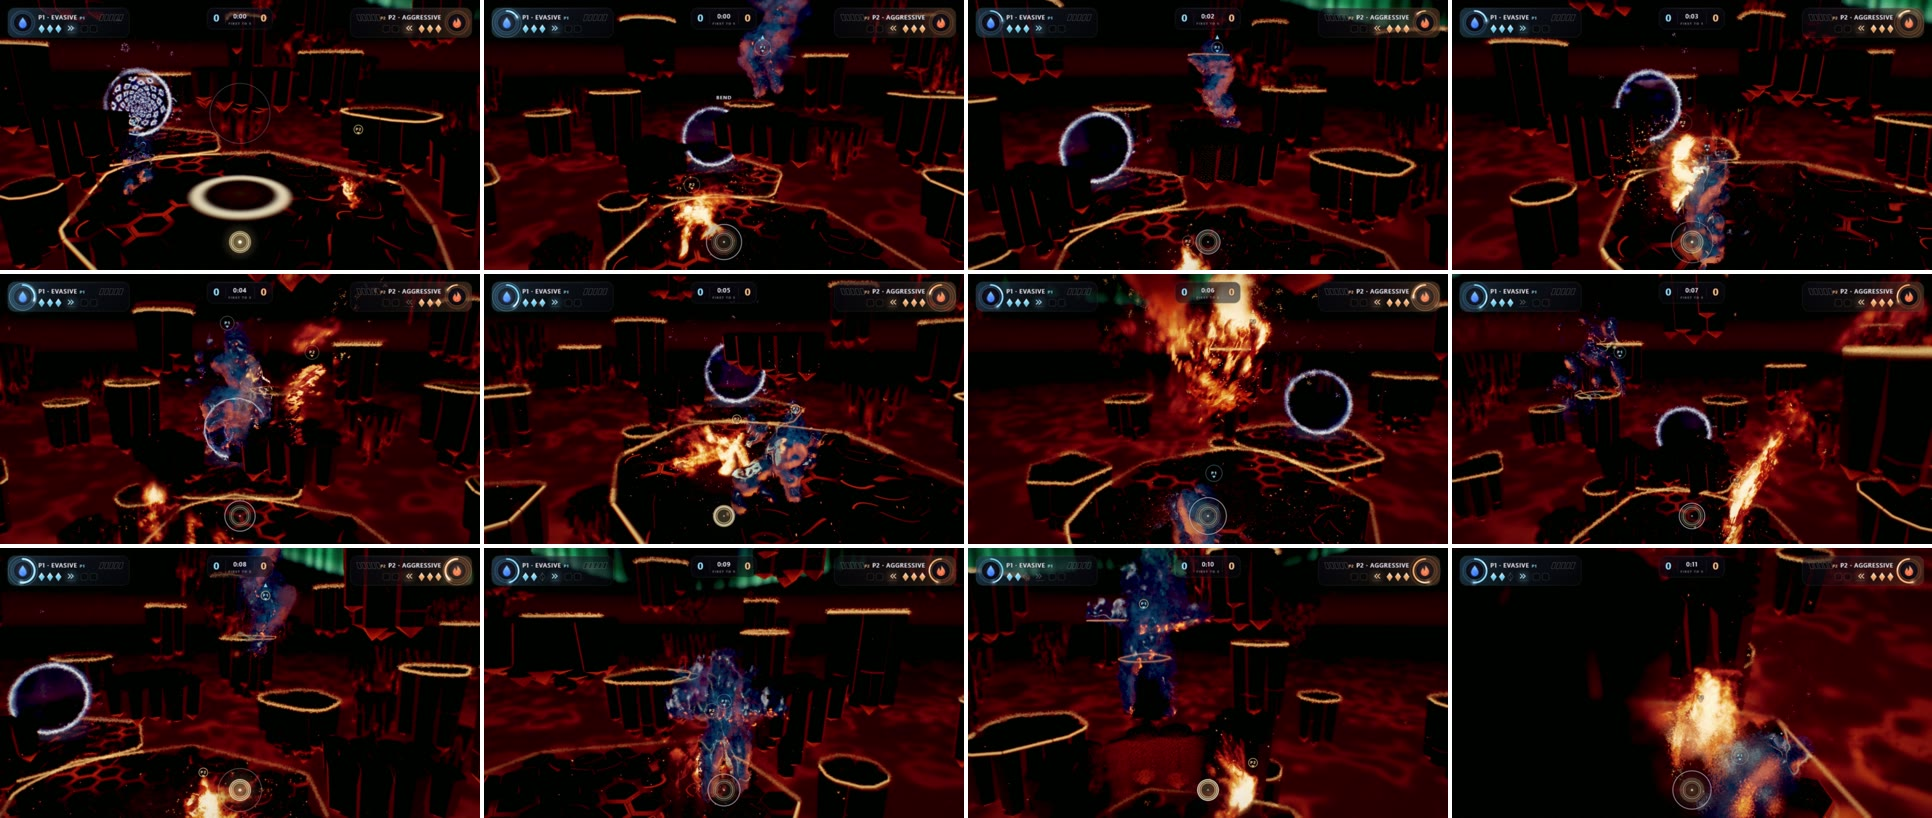
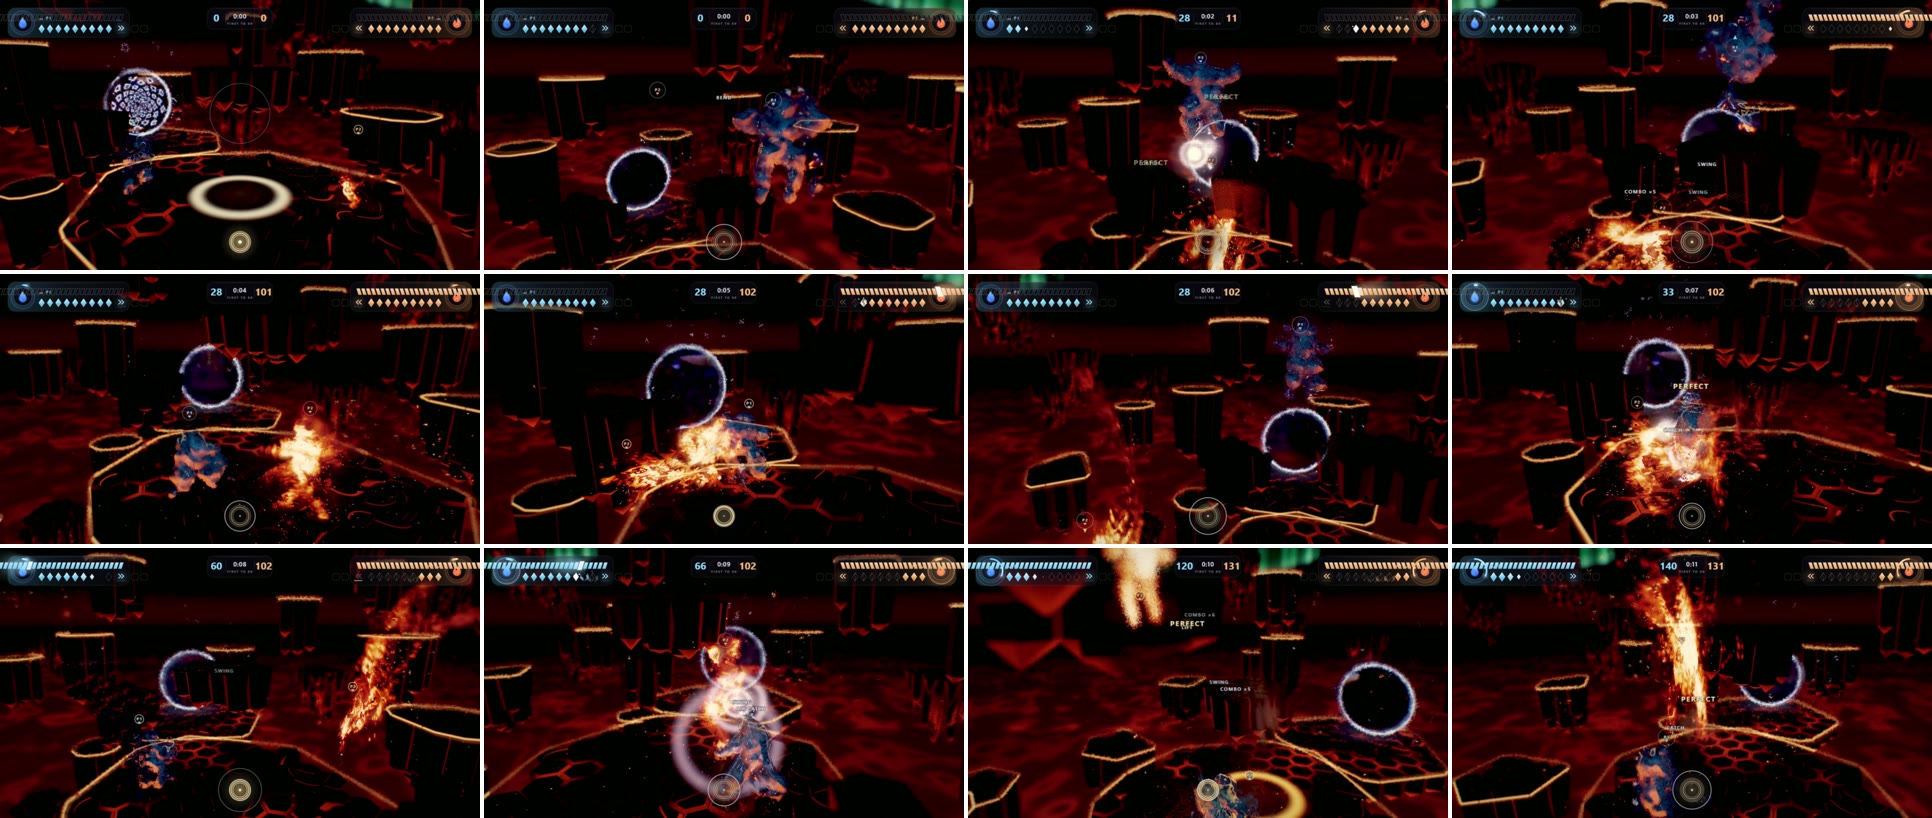
Duel: balance lifts and flings, keep swings out of solids and floors, HUD v1 shim, new stills and sheets
Holds end mostly in flings again (lifts rarer, later, on the beat); a carried body
bounces off the world's solids and stays above the floor under it when locked; the
Node forge leaves the overhead crown to the solids; the sim counts how holds end.

diff --git a/src/duel/contact.ts b/src/duel/contact.ts
@@ -18,6 +18,7 @@
 // While joined the base stands braced (its stick is the pump, not its run), and both reach for the contact: the pose
 // pass (`pose`) puts the holding hand and the held part on it, the held body's arms stretched out.
 import { Character } from '../dancer/character';
+import { solidBound, solidContact } from '../dancer/solid-contact';
 import { J } from '../dancer/moves';
 import { planeNormal } from '../engine/camera';
 
@@ -77,7 +78,7 @@ export interface ContactInput {
 export const noInput = (): ContactInput => ({ grab: false, grabEdge: false, jump: false, dodge: false, stick: [0, 0] });
 
 export type ContactKind = 'catch' | 'aerial' | 'swing' | 'fling' | 'flown' | 'lift' | 'counter' | 'vault' | 'landed' | 'release';
-export interface ContactEvent { kind: ContactKind; seat: number; other: number; perfect: boolean; at: V3; speed?: number }
+export interface ContactEvent { kind: ContactKind; seat: number; other: number; perfect: boolean; at: V3; speed?: number; /** a release's cause: stretched past BREAK, or a body re-forming */ why?: 'stretched' | 'reform' }
 
 export interface Link {
   holder: number;
@@ -112,6 +113,7 @@ export class Contact {
   private noGrab = [0, 0];
   private vaultT = [0, 0];
   private t = 0;
+  private ct = { d: 0, n: [0, 0, 0] as [number, number, number] };
 
   constructor(readonly chars: readonly [Character, Character]) {}
 
@@ -192,7 +194,8 @@ export class Contact {
       const tooLong = this.t - L.since > CONTACT.HOLD_MAX, broken = d > CONTACT.BREAK || F.reforming || H.reforming;
       // the held body's own moves: a lift (above the contact) or a counter, its jump or dodge
       if ((fin.jump || fin.dodge) && !broken) {
-        const above = c[1] > p[1] + 0.15;
+        // (at the contact's height or above: swung round at chest height counts, its feet off the ground)
+        const above = c[1] > p[1] - 0.35;
         const s = fin.stick;
         if (above && fin.jump) {
           this.setV(F, [F.v[0] + s[0] * 3, CONTACT.LAUNCH, F.v[2] + s[1] * 3]);
@@ -217,7 +220,7 @@ export class Contact {
           this.flown = { flinger: L.holder, flyer: L.held, since: this.t };
           out.push({ kind: 'fling', seat: L.holder, other: L.held, perfect: onBeat, at: L.at, speed: len(fv) });
           out.push({ kind: 'flown', seat: L.held, other: L.holder, perfect: onBeat, at: L.at });
-        } else out.push({ kind: 'release', seat: L.holder, other: L.held, perfect: false, at: L.at });
+        } else out.push({ kind: 'release', seat: L.holder, other: L.held, perfect: false, at: L.at, why: F.reforming || H.reforming ? 'reform' : 'stretched' });
         this.noGrab[L.holder] = this.t + CONTACT.REGRAB;
         this.link = null;
         return out;
@@ -272,8 +275,15 @@ export class Contact {
         const vr = fv[0] * nq[0] + fv[1] * nq[1] + fv[2] * nq[2];
         let nv: V3 = [fv[0] - nq[0] * vr, fv[1] - nq[1] * vr, fv[2] - nq[2] * vr];
         // its feet kept off the ground below
-        const low = H.root[1] + (F.plane ? 0.55 : 1.05);
+        const low = F.plane ? Math.max(H.root[1] + 0.55, F.groundY + 1.02) : H.root[1] + 1.05;
         if (q[1] < low) { q[1] = low; if (nv[1] < 0) nv = [nv[0], 0, nv[2]]; }
+        // (free, the world's solids stop the swing: a body swung into a block or a column stays out of it, bounced off)
+        const hit = F.plane ? null : this.into(F, q);
+        if (hit) {
+          q = [L.c[0], L.c[1], L.c[2]];
+          const vn = nv[0] * hit[0] + nv[1] * hit[1] + nv[2] * hit[2];
+          if (vn < 0) nv = [nv[0] - hit[0] * vn * 1.4, nv[1] - hit[1] * vn * 1.4, nv[2] - hit[2] * vn * 1.4];
+        }
         const step: V3 = [q[0] - L.c[0], q[1] - L.c[1], q[2] - L.c[2]];
         if (wH) this.move(H, [-step[0] * wH * 0.5, -step[1] * wH * 0.5, -step[2] * wH * 0.5]);
         L.c = q; L.v = nv;
@@ -328,6 +338,22 @@ export class Contact {
     const f = this.flat(c, d);
     c.root[0] += f[0]; c.root[1] += f[1]; c.root[2] += f[2];
     if (f[1] > 0.02 && c.grounded) { c.grounded = false; c.support = null; }
+  }
+
+  /** a carried body's centre at q inside one of the world's solids: the way out of it (the normal), else null */
+  private into(F: Character, q: V3): V3 | null {
+    const solids = F.terrain.solids;
+    if (!solids || !solids.length) return null;
+    const R = F.phys.bodyR + 0.05;
+    for (const s of solids) {
+      const b = solidBound(s);
+      if (Math.hypot(q[0] - b.c[0], q[2] - b.c[2]) > b.R + 1 || b.y1 < q[1] - 1 || b.y0 > q[1] + 0.8) continue;
+      for (const dy of [-0.6, 0, 0.55]) {
+        solidContact(s, q[0], q[1] + dy, q[2], this.ct);
+        if (this.ct.d < R) return [this.ct.n[0], this.ct.n[1], this.ct.n[2]];
+      }
+    }
+    return null;
   }
 
   /** the pose pass, after a body's own pose (Character.update): the holder's nearer hand on the contact, the held

diff --git a/src/duel/probe.ts b/src/duel/probe.ts
@@ -55,6 +55,8 @@ for (const world of worlds) for (const view of views) {
       }
     }
     const holds = all.flatMap((r) => r.holds);
+    const ends: Record<string, number> = {};
+    for (const r of all) for (const [k, v] of Object.entries(r.ends)) ends[k] = (ends[k] ?? 0) + v;
     const peaks = all.flatMap((r) => r.sets.map((x) => x.peak)), fused = all.reduce((a, r) => a + r.sets.filter((x) => x.fused).length, 0);
     const merges = all.reduce((a, r) => a + r.stats.merges, 0);
     const line = {
@@ -64,11 +66,12 @@ for (const world of worlds) for (const view of views) {
       flingsPerMin: (links.fling ?? 0) / min, swingsPerMin: (links.swing ?? 0) / min, liftsPerMin: (links.lift ?? 0) / min, vaultsPerMin: (links.vault ?? 0) / min,
       countersPerMin: (links.counter ?? 0) / min, wallJumpsPerMin: (links.walljump ?? 0) / playerMin, holdS: mean(holds),
       airShare: air / (play * 2), fallsPerMin: falls / min, style: mean(styles), peak: mean(peaks), fused, merges,
+      ends,
       linksPerMin: Object.fromEntries(KINDS.filter((k) => links[k]).map((k) => [k, +(links[k] / min).toFixed(1)])),
     };
     report.push(line);
     console.log(`\n${world} ${view}: ${line.styles} (skill ${line.skills}), ${line.sets} sets of ${setMs / 1000} s, wins ${wins.join('-')}`);
-    console.log(`  per minute of play: ${f1(line.catchesPerMin)} catches (${(line.aerialShare * 100).toFixed(0)}% out of the air), ${f1(line.swingsPerMin)} swings, ${f1(line.flingsPerMin)} flings, ${f1(line.liftsPerMin)} lifts, ${f1(line.vaultsPerMin)} vaults, ${f1(line.countersPerMin)} counters; a hold ${f1(line.holdS)} s`);
+    console.log(`  per minute of play: ${f1(line.catchesPerMin)} catches (${(line.aerialShare * 100).toFixed(0)}% out of the air), ${f1(line.swingsPerMin)} swings, ${f1(line.flingsPerMin)} flings, ${f1(line.liftsPerMin)} lifts, ${f1(line.vaultsPerMin)} vaults, ${f1(line.countersPerMin)} counters; a hold ${f1(line.holdS)} s (ended by ${Object.entries(ends).map(([k, v]) => `${k} ${v}`).join(', ')})`);
     console.log(`  combos: ${f1(line.combosPerMin)} a player-minute, ${f1(line.linksPerCombo)} links each, the longest ${longest}; ${(line.airShare * 100).toFixed(0)}% of the time in the air; ${f1(line.wallJumpsPerMin)} wall jumps a player-minute; ${f1(line.fallsPerMin)} falls a minute`);
     console.log(`  style ${f1(line.style)} a dancer a set; the shared energy's peak ${line.peak.toFixed(2)}; ${fused} of ${all.length} finales fused; ${merges} merges`);
     console.log(`  links a minute: ${Object.entries(line.linksPerMin).map(([k, v]) => `${k} ${v}`).join(', ')}`);

diff --git a/src/duel/index.ts b/src/duel/index.ts
@@ -75,6 +75,18 @@ export interface BrainSpec { style?: DuelStyle; skill?: number; seed?: number }
 
 const perSeat = (v: string | null, k: number) => { if (v == null) return null; const xs = v.split(','); return xs[k] ?? xs[0]; };
 
+/** the version 2 state with the version 1 fields the HUD on master still reads (until src/hud is redrawn to v2: the
+ *  contract keeps old fields optional): hits ← the combo, kos ← style, superMeter ← the shared energy, the round ← the
+ *  set. Extra fields, which a v2 HUD ignores */
+function withV1(s: HudState): HudState {
+  const phase = { intro: 'countdown', play: 'play', finale: 'ko', done: 'won' }[s.set.phase];
+  return {
+    ...s,
+    players: s.players.map((p) => ({ ...p, hits: Math.min(p.combo.n, 9), hitsMax: 9, kos: p.style, superMeter: s.shared.energy, charges: [] })),
+    round: { koTarget: Math.round(s.set.length), time: s.set.time, phase, ...(s.set.countdown != null ? { countdown: s.set.countdown } : {}), ...(s.set.winner != null ? { winner: s.set.winner } : {}) },
+  } as HudState;
+}
+
 export async function startDuel(app: PlayApp) {
   const { kit, frame, show, rig, music, field, query: q } = app;
   const world = () => app.worldOf(app.main.world);
@@ -300,7 +312,7 @@ export async function startDuel(app: PlayApp) {
     duelHud.events(pendingHud.splice(0, pendingHud.length), pendingTouches.splice(0, pendingTouches.length), seats, linkAt);
     const link = L ? { on: true, from: project(fx.chest(L.holder)), to: project(fx.chest(L.held)) } : { on: false };
     hudState = duelHud.build(match.state, now, f.dt, seats, beat, bpm, setMs, link);
-    (window as unknown as { bend?: { hud?: { set?: (s: HudState) => void } } }).bend?.hud?.set?.(hudState);
+    (window as unknown as { bend?: { hud?: { set?: (s: HudState) => void } } }).bend?.hud?.set?.(withV1(hudState));
   }, 'duel: its glows to the GPU, its HUD state');
 
   // ---------------------------------------------------------------- bend.duel

diff --git a/src/duel/sim.ts b/src/duel/sim.ts
@@ -57,6 +57,8 @@ export interface DuelSimResult {
   /** how long each hold lasted (s), how far apart the two stood (m, each second) */
   holds: number[];
   spread: number[];
+  /** how the holds ended: fling, release (stretched or too long), lift, counter */
+  ends: Record<string, number>;
   match: DuelMatch;
 }
 
@@ -102,7 +104,7 @@ export function simulateDuel(o: DuelSimOptions): DuelSimResult {
   const stage: StageView = { plane: o.locked ? plane : null, stage: plane, terrain, gates: [], room: A.space.radius, solids };
   const drivers = brains.map((b, k) => (b ? new BrainDriver(b, bodies[k], scene, () => stage) : null));
   const seats: [SeatStats, SeatStats] = [blankStats(), blankStats()];
-  const res: DuelSimResult = { seconds: 0, play: 0, sets: [], seats, stats: match.state.stats, holds: [], spread: [], match };
+  const res: DuelSimResult = { seconds: 0, play: 0, sets: [], seats, stats: match.state.stats, holds: [], spread: [], ends: {}, match };
   const maxT = o.seconds ?? 3600, maxSets = o.sets ?? 1;
   const frames = Math.round(maxT / dt);
   let holdFrom = -1;
@@ -125,6 +127,7 @@ export function simulateDuel(o: DuelSimOptions): DuelSimResult {
     const L = match.contact.link;
     if (L && holdFrom < 0) holdFrom = t;
     else if (!L && holdFrom >= 0) { res.holds.push(t - holdFrom); holdFrom = -1; }
+    for (const x of match.touches) if (x.kind === 'fling' || x.kind === 'release' || x.kind === 'lift' || x.kind === 'counter') { const k = x.kind === 'release' ? `release (${x.why})` : x.kind; res.ends[k] = (res.ends[k] ?? 0) + 1; }
     for (const e of ev) {
       if (e.k === 'link') seats[e.seat].links[e.kind] = (seats[e.seat].links[e.kind] ?? 0) + 1;
       else if (e.k === 'combo') { const S = seats[e.seat]; if (e.why !== 'fall') { S.combos++; S.comboLinks += e.n; } S.longest = Math.max(S.longest, e.n); }

diff --git a/src/ai/duel-brain.ts b/src/ai/duel-brain.ts
@@ -660,8 +660,11 @@ export class DuelBrain implements Brain {
     }
     if (held && L) {
       this.grabUntil = -1;
-      const hold = L.age, above = c.root[1] > O.root[1] + 0.9;
-      if (above && hold > 0.25 && this.rng.chance(K.leap * 0.08 * 60 * S.dt)) { it.jump = true; this.count('lift'); this.why = 'lift'; }
+      // (held, a jump or a dodge is the contact's: the lift or the counter, chosen here, not the legs' habits)
+      it.jump = false; it.dodge = false; this.jumpUntil = -1;
+      const hold = L.age, above = c.root[1] > O.root[1] - 0.1 && !c.grounded;
+      const onBeatNow = Math.abs(S.beat * 2 - Math.round(S.beat * 2)) < 0.25;
+      if (above && hold > 0.8 && (onBeatNow || !this.rng.chance(this.skill)) && this.rng.chance(K.leap * 0.015 * 60 * S.dt)) { it.jump = true; this.jumpNow(t, 0.5); this.count('lift'); this.why = 'lift'; }
       else if (hold > 1.6 && this.rng.chance((0.3 + K.showy) * 0.02 * 60 * S.dt)) {
         it.dodge = true; this.count('counter'); this.why = 'counter';
         if (D && !pl) { const C = D.space.center; stickFor(c, C[0] - c.root[0], C[2] - c.root[2], 1, it); }

diff --git a/src/duel/stages.ts b/src/duel/stages.ts
@@ -36,7 +36,10 @@ export function worldFor(id: string): NodeWorld | null {
       const L = layoutForge({ coarse: false }), A = forgeDuel().arena;
       return {
         id, room: A.camera?.maxDist ?? 24, fallY: -4, arena: A, solids: [...solidsOfForge(L), ...(A.pieces ?? [])],
-        groundAt: (x, z) => floorAt(L, x, z, (_s, top) => top, -12),
+        // (the crown hangs over the middle at 3.1 m: forge.ts's groundAt counts it as the floor under it, so a free body
+        // walking under it is put on top (reported to the integrator). Here it is left to the solids, which stand on it
+        // from above and stop a body from the side, as the forge's fix would)
+        groundAt: (x, z) => floorAt(L, x, z, (s, top) => (s.id === 'crown' ? -Infinity : top), -12),
         stage: stagePlane({ id: 'anvil', origin: [0, 0, 0], right: [1, 0, 0], halfWidth: 5.75, ground: null, ledges: L.ledges, spawns: [[-2.3, 0], [2.3, 0]], lens: 20 }),
       };
     }
